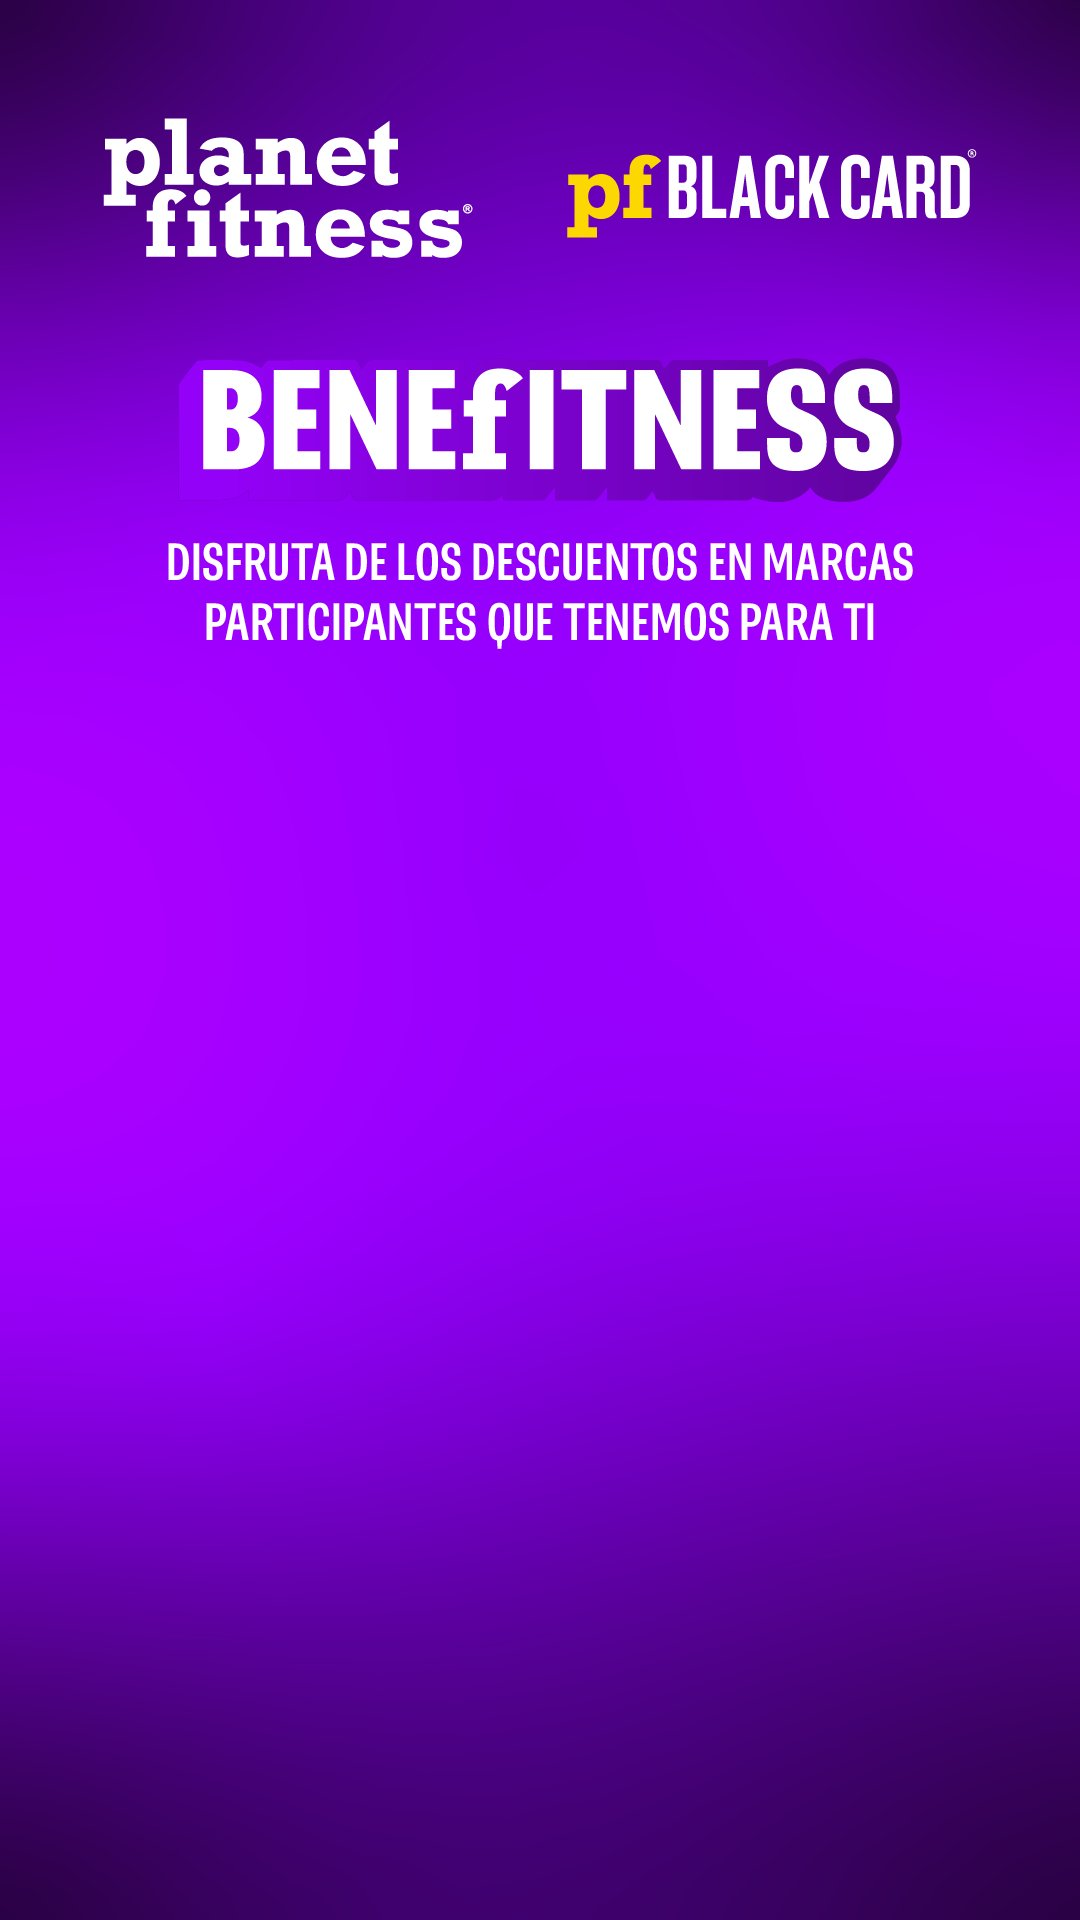
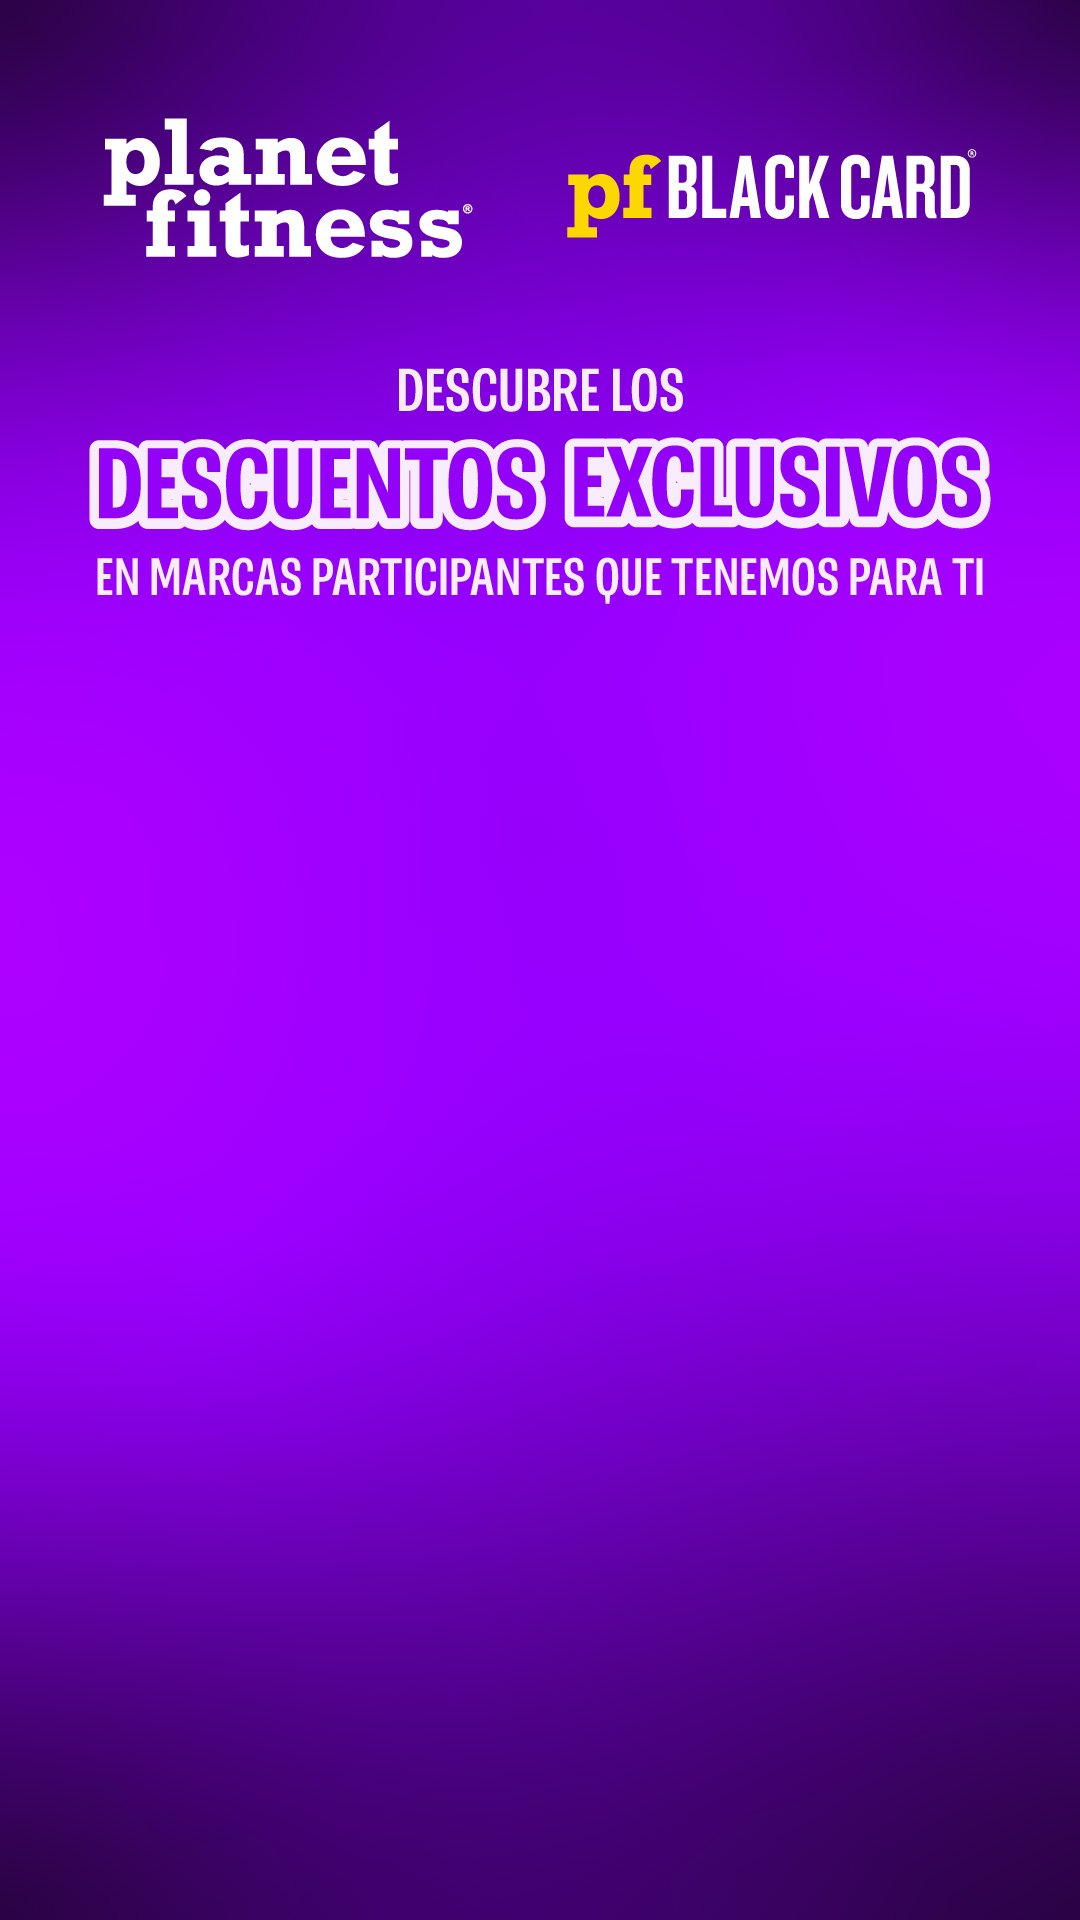
Cambia el fondo y acomoda el carrusel al nuevo arte
El arte lleva texto casi hasta las orillas, asi que se muestra completo a lo
ancho y el sobrante de abajo se rellena con su mismo tono final.

Changed region(s): [[0.0611, 0.1875, 0.9167, 0.3438]]

diff --git a/index.html b/index.html
@@ -36,17 +36,20 @@
     width: 100%;
     max-width: 520px;      /* en pantallas anchas se queda del ancho de un celular */
     height: 100svh;
-    background-color: var(--fondo);
+    /* El arte se ve completo a lo ancho; lo que sobra abajo se rellena con su mismo
+       tono final, para que no se note el corte. */
+    background-color: #37015e;
     background-image: var(--fondo-imagen, none);
-    background-size: cover;
+    background-size: 100% auto;
     background-position: center top;
+    background-repeat: no-repeat;
     overflow: hidden;
   }
   .contenedor {
     position: absolute;
     left: 0;
     right: 0;
-    top: var(--inicio-contenido, 35%);
+    top: var(--inicio-contenido, 33%);   /* justo debajo del texto del fondo, que termina al 31% */
     bottom: 3%;
     display: flex;
     flex-direction: column;
